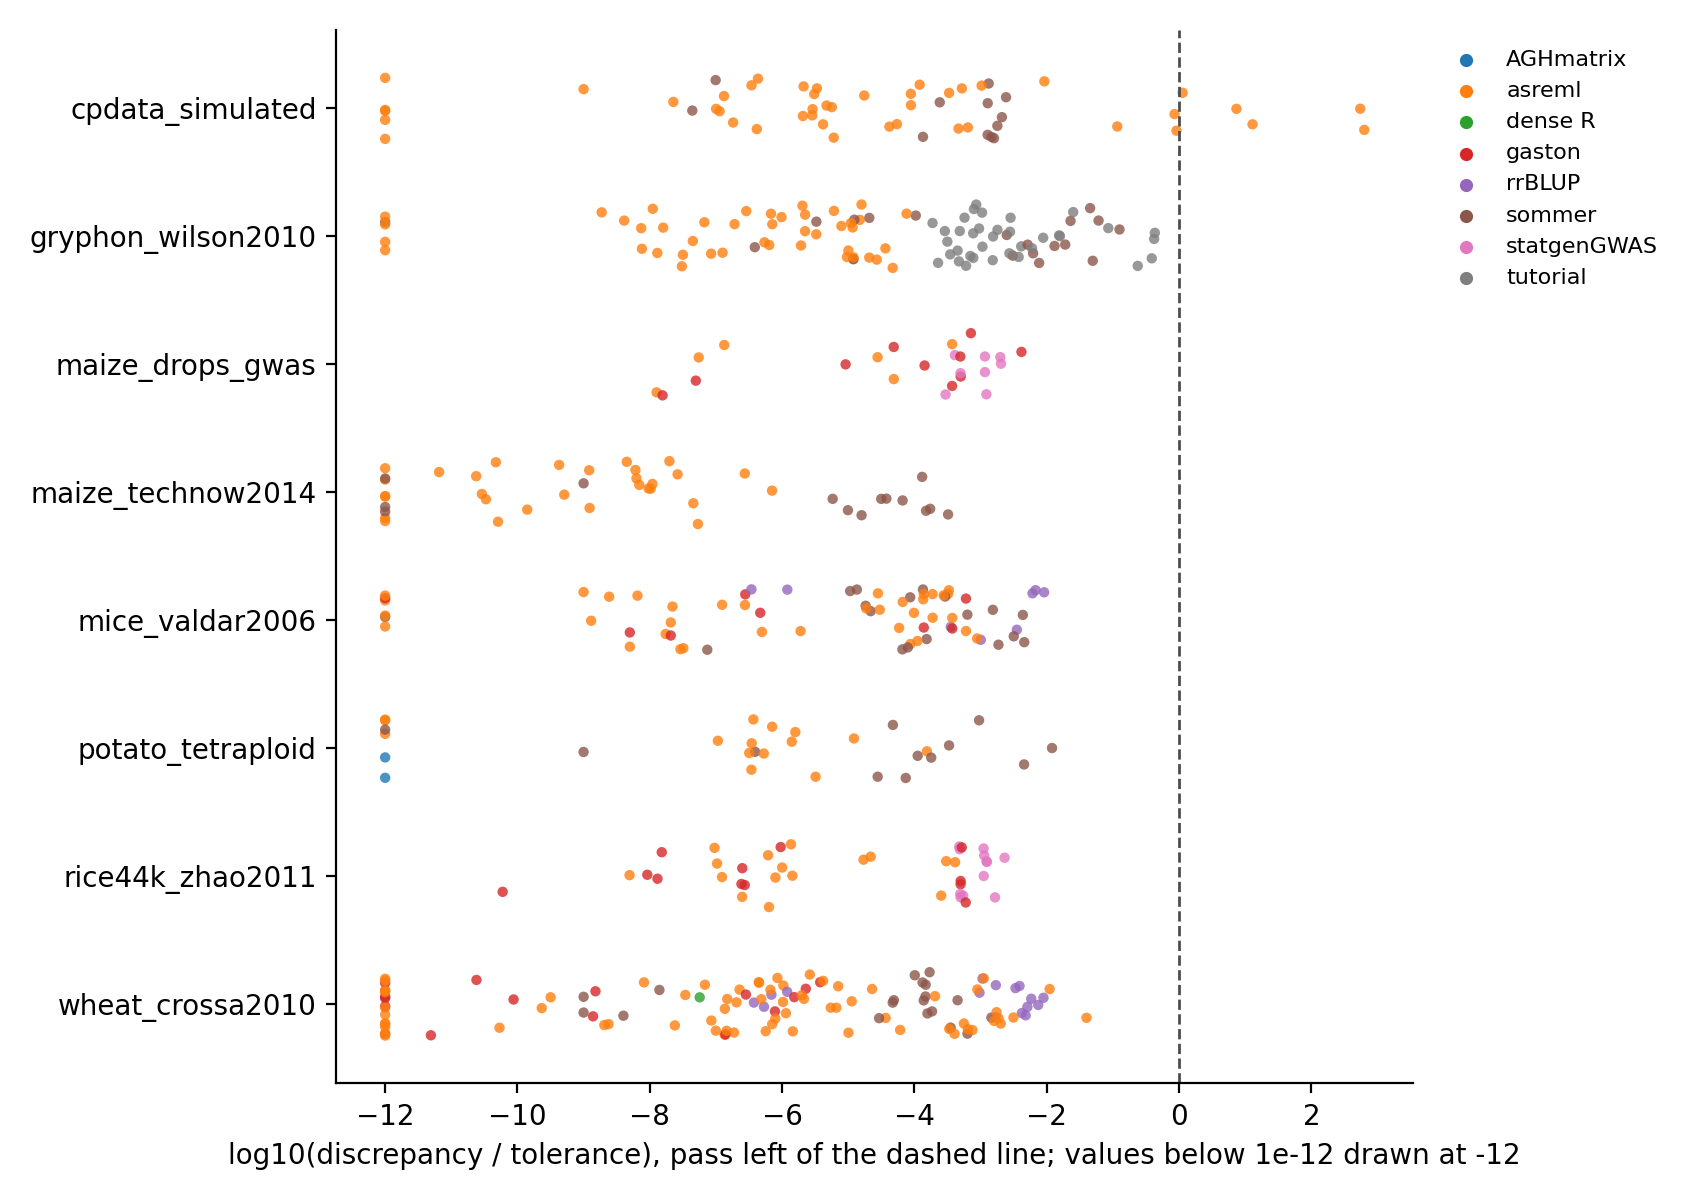
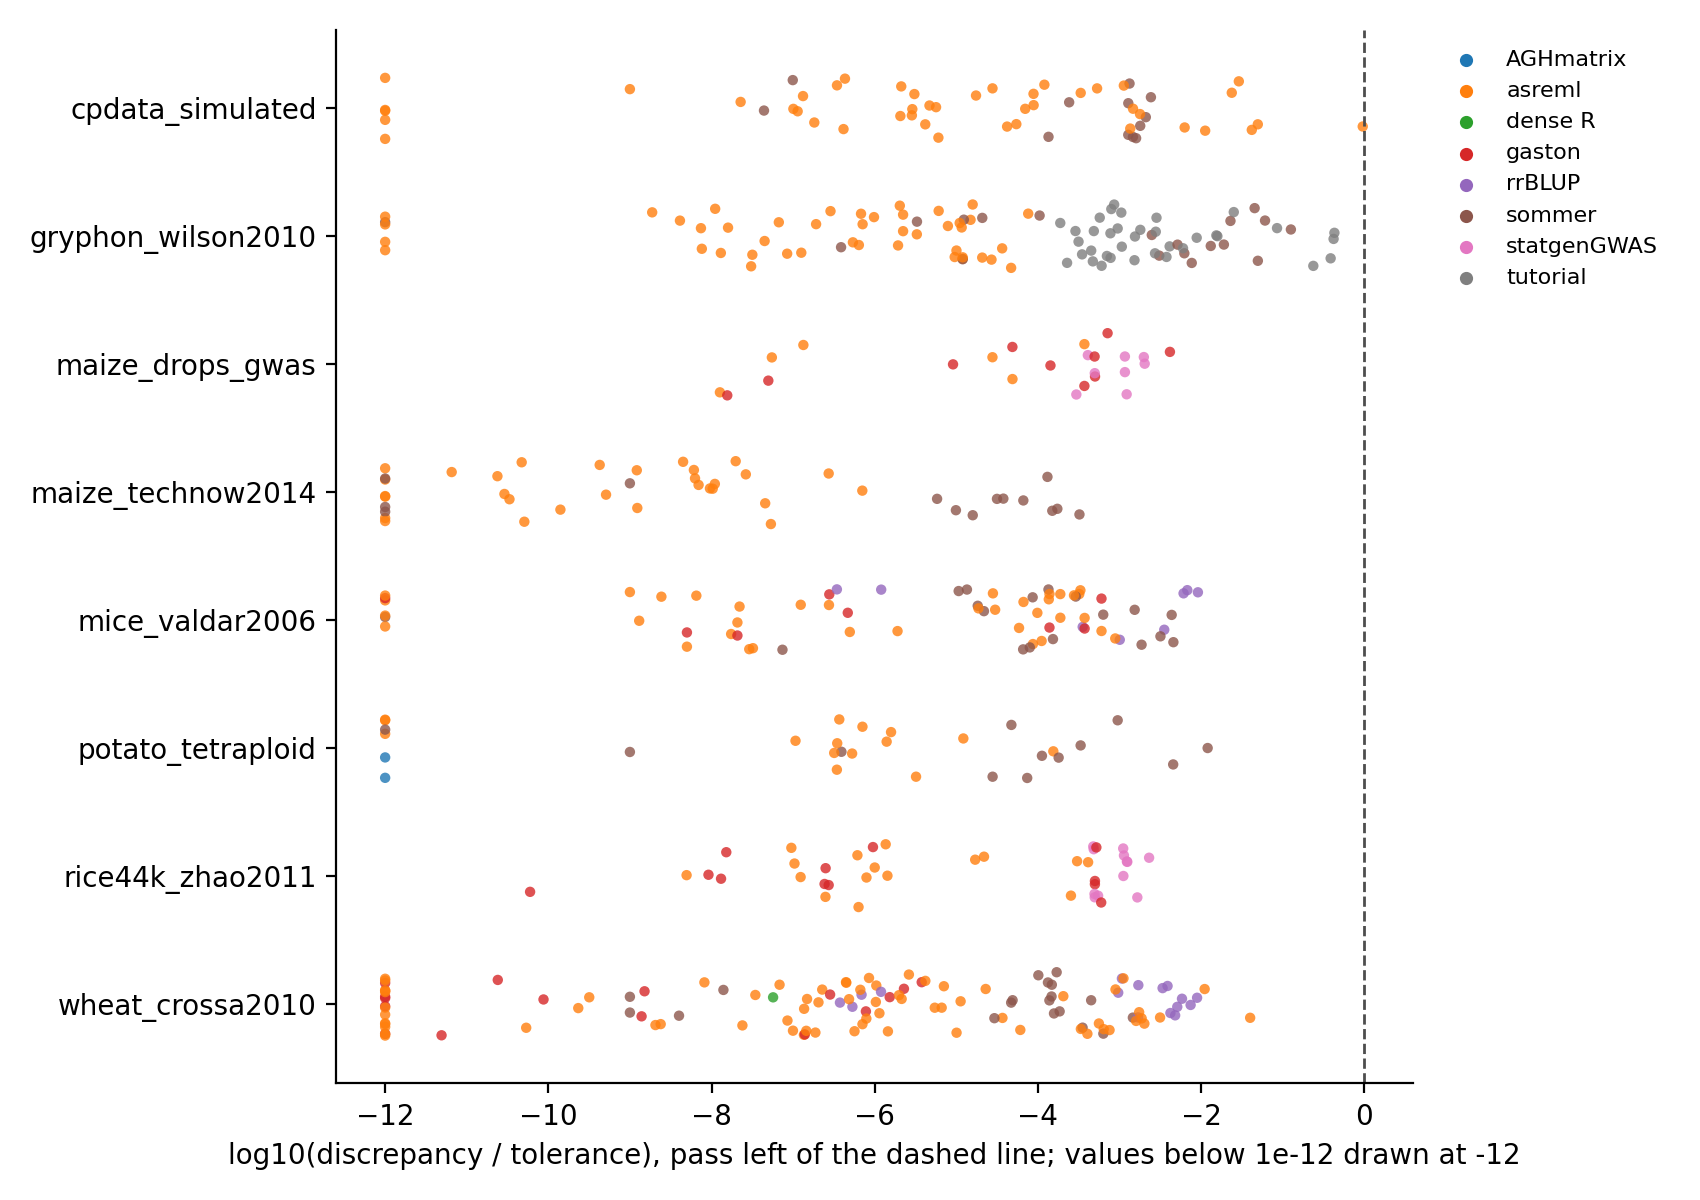
cpdata: 56 of 56 with remlax dc05c50; published data 505 of 505
remlax now keeps the empty columns of an ar1 grid. asreml keeps them only
when the empty cells are present as rows with a missing response, and drops
the unused levels otherwise. The random field model therefore gives asreml
the full grid, as the residual model already did, so that both programs fit
the same model. asreml on the grid without the empty lines stays as context.

diff --git a/docs/published-data.md b/docs/published-data.md
@@ -8,7 +8,7 @@ Each script of `published_data/scripts/` fits remlax on a published data set and
 
 | data set | source | checks | pass | fail | context rows |
 |---|---|---|---|---|---|
-| cpdata_simulated | Covarrubias-Pazaran 2016, doi:10.1371/journal.pone.0156744 (simulated data) | 56 | 51 | 5 | 15 |
+| cpdata_simulated | Covarrubias-Pazaran 2016, doi:10.1371/journal.pone.0156744 (simulated data) | 56 | 56 | 0 | 15 |
 | gryphon_wilson2010 | Wilson et al. 2010, doi:10.1111/j.1365-2656.2009.01639.x | 99 | 99 | 0 | 0 |
 | maize_drops_gwas | Millet et al. 2016 Plant Physiol; Millet et al. 2019 Sci Data | 34 | 34 | 0 | 23 |
 | maize_technow2014 | Technow et al. 2014, doi:10.1534/genetics.114.165860 | 44 | 44 | 0 | 0 |
@@ -16,14 +16,14 @@ Each script of `published_data/scripts/` fits remlax on a published data set and
 | potato_tetraploid | Rosyara et al. 2016, doi:10.3835/plantgenome2015.08.0073 | 29 | 29 | 0 | 1 |
 | rice44k_zhao2011 | Zhao et al. 2011 Nat Commun 2:467 | 52 | 52 | 0 | 40 |
 | wheat_crossa2010 | Crossa et al. 2010, doi:10.1534/genetics.110.118521 | 121 | 121 | 0 | 11 |
-| total | | 505 | 500 | 5 | 92 |
+| total | | 505 | 505 | 0 | 92 |
 
 ## By reference program
 
 | reference | checks | pass | largest discrepancy / tolerance |
 |---|---|---|---|
 | AGHmatrix | 2 | 2 | 0 |
-| asreml | 260 | 255 | 631.1 |
+| asreml | 260 | 260 | 0.9578 |
 | dense R | 1 | 1 | 5.684e-08 |
 | gaston | 58 | 58 | 0.004152 |
 | remlax | 3 | 3 |  |
@@ -34,13 +34,7 @@ Each script of `published_data/scripts/` fits remlax on a published data set and
 
 ## Failed checks
 
-| data set | model | quantity | reference | remlax | reference value | discrepancy | note |
-|---|---|---|---|---|---|---|---|
-| cpdata_simulated | Firmness gblup_ar1res | rho Row | asreml | 0.4219 | 0.4224 | 0.001134 |  |
-| cpdata_simulated | Firmness gblup_ar1res | rho Col | asreml | 0.0053 | 0.01437 | 0.6311 |  |
-| cpdata_simulated | Firmness gblup_ar1res | logLik (asreml convention) | asreml | -1245 | -1245 | 0.005484 |  |
-| cpdata_simulated | Firmness gblup_ar1res | BLUP correlation | asreml | 0.9999926 |  | 7.376e-06 |  |
-| cpdata_simulated | Firmness gblup_ar1res | BLUP max |diff| / sd | asreml | 0.01292 |  | 0.01292 |  |
+None.
 
 ## Values printed in the source papers
 
@@ -93,15 +87,15 @@ Each script of `published_data/scripts/` fits remlax on a published data set and
 | cpdata_simulated | Yield gblup_ar1fld | rho Col | asreml | 0.9875 | 0.98 | 0.007691 | asreml fixed Row:Col!Col!cor at 0.98 |
 | cpdata_simulated | Yield gblup_ar1fld | sigma2 residual | asreml | 3068 | 3039 | 0.009546 | asreml fixed Row:Col!Col!cor at 0.98 |
 | cpdata_simulated | Yield gblup_ar1fld | logLik (asreml convention) | asreml | -1673 | -1673 | 0.1359 | asreml fixed Row:Col!Col!cor at 0.98 |
-| cpdata_simulated | Firmness gblup_ar1res | logLik, grid without empty lines | asreml | -1245 | -1245 | 1.427e-08 | asreml on the grid without the empty lines (13 x 30) |
-| cpdata_simulated | Firmness gblup_ar1res | rho Col, grid without empty lines | asreml | 0.0053 | 0.0053 | 3.722e-05 | asreml on the grid without the empty lines (13 x 30) |
-| cpdata_simulated | Firmness gblup_ar1res | sigma2 G, grid without empty lines | asreml | 2283 | 2283 | 1.146e-05 | asreml on the grid without the empty lines (13 x 30) |
-| cpdata_simulated | Firmness gblup_ar1fld | sigma2 G | asreml | 2308 | 2315 | 0.003011 | asreml fixed Row:Col!Row!cor at 0.98 |
-| cpdata_simulated | Firmness gblup_ar1fld | sigma2 field | asreml | 337.5 | 363.3 | 0.07092 | asreml fixed Row:Col!Row!cor at 0.98 |
-| cpdata_simulated | Firmness gblup_ar1fld | rho Row | asreml | 0.9947 | 0.98 | 0.01496 | asreml fixed Row:Col!Row!cor at 0.98 |
-| cpdata_simulated | Firmness gblup_ar1fld | rho Col | asreml | -0.1663 | -0.1479 | 0.1244 | asreml fixed Row:Col!Row!cor at 0.98 |
-| cpdata_simulated | Firmness gblup_ar1fld | sigma2 residual | asreml | 851.4 | 827 | 0.0295 | asreml fixed Row:Col!Row!cor at 0.98 |
-| cpdata_simulated | Firmness gblup_ar1fld | logLik (asreml convention) | asreml | -1240 | -1240 | 0.04321 | asreml fixed Row:Col!Row!cor at 0.98 |
+| cpdata_simulated | Firmness gblup_ar1res | logLik, grid without empty lines | asreml | -1245 | -1245 | 0.005484 | asreml on the grid without the empty lines (13 x 30) |
+| cpdata_simulated | Firmness gblup_ar1res | rho Col, grid without empty lines | asreml | 0.01437 | 0.0053 | 1.711 | asreml on the grid without the empty lines (13 x 30) |
+| cpdata_simulated | Firmness gblup_ar1res | sigma2 G, grid without empty lines | asreml | 2280 | 2283 | 0.000891 | asreml on the grid without the empty lines (13 x 30) |
+| cpdata_simulated | Firmness gblup_ar1fld | sigma2 G | asreml | 2297 | 2303 | 0.002558 | asreml fixed Row:Col!Row!cor at 0.98 |
+| cpdata_simulated | Firmness gblup_ar1fld | sigma2 field | asreml | 339.5 | 362.3 | 0.06288 | asreml fixed Row:Col!Row!cor at 0.98 |
+| cpdata_simulated | Firmness gblup_ar1fld | rho Row | asreml | 0.9925 | 0.98 | 0.01276 | asreml fixed Row:Col!Row!cor at 0.98 |
+| cpdata_simulated | Firmness gblup_ar1fld | rho Col | asreml | -0.1135 | -0.095 | 0.1948 | asreml fixed Row:Col!Row!cor at 0.98 |
+| cpdata_simulated | Firmness gblup_ar1fld | sigma2 residual | asreml | 851.7 | 830.6 | 0.02535 | asreml fixed Row:Col!Row!cor at 0.98 |
+| cpdata_simulated | Firmness gblup_ar1fld | logLik (asreml convention) | asreml | -1240 | -1240 | 0.02893 | asreml fixed Row:Col!Row!cor at 0.98 |
 | maize_drops_gwas | Mur13W anthesis | null s2_g | statgenGWAS | 4.076 | 4.061 | 0.003728 | statgenGWAS EMMA does not reach the REML optimum, see logLik row |
 | maize_drops_gwas | Mur13W anthesis | null s2_e | statgenGWAS | 0.8692 | 0.885 | 0.01788 | statgenGWAS EMMA does not reach the REML optimum, see logLik row |
 | maize_drops_gwas | Mur13W anthesis | score chi2 native output (max rel) | gaston | 3.122e-06 |  | 3.122e-06 | gaston native output vs its own double recomputation: 3.12e-06 |
